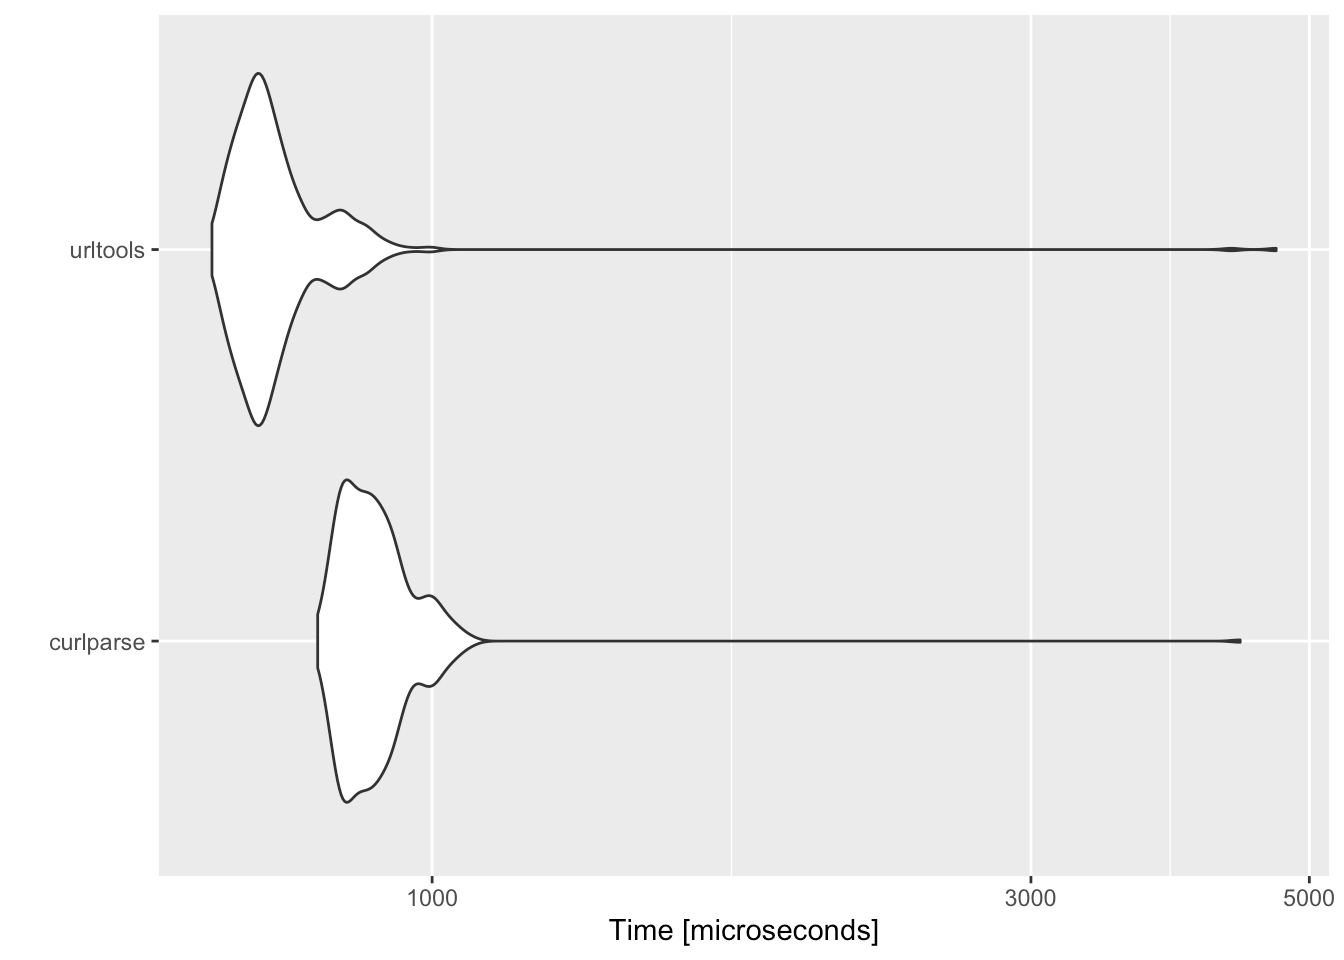
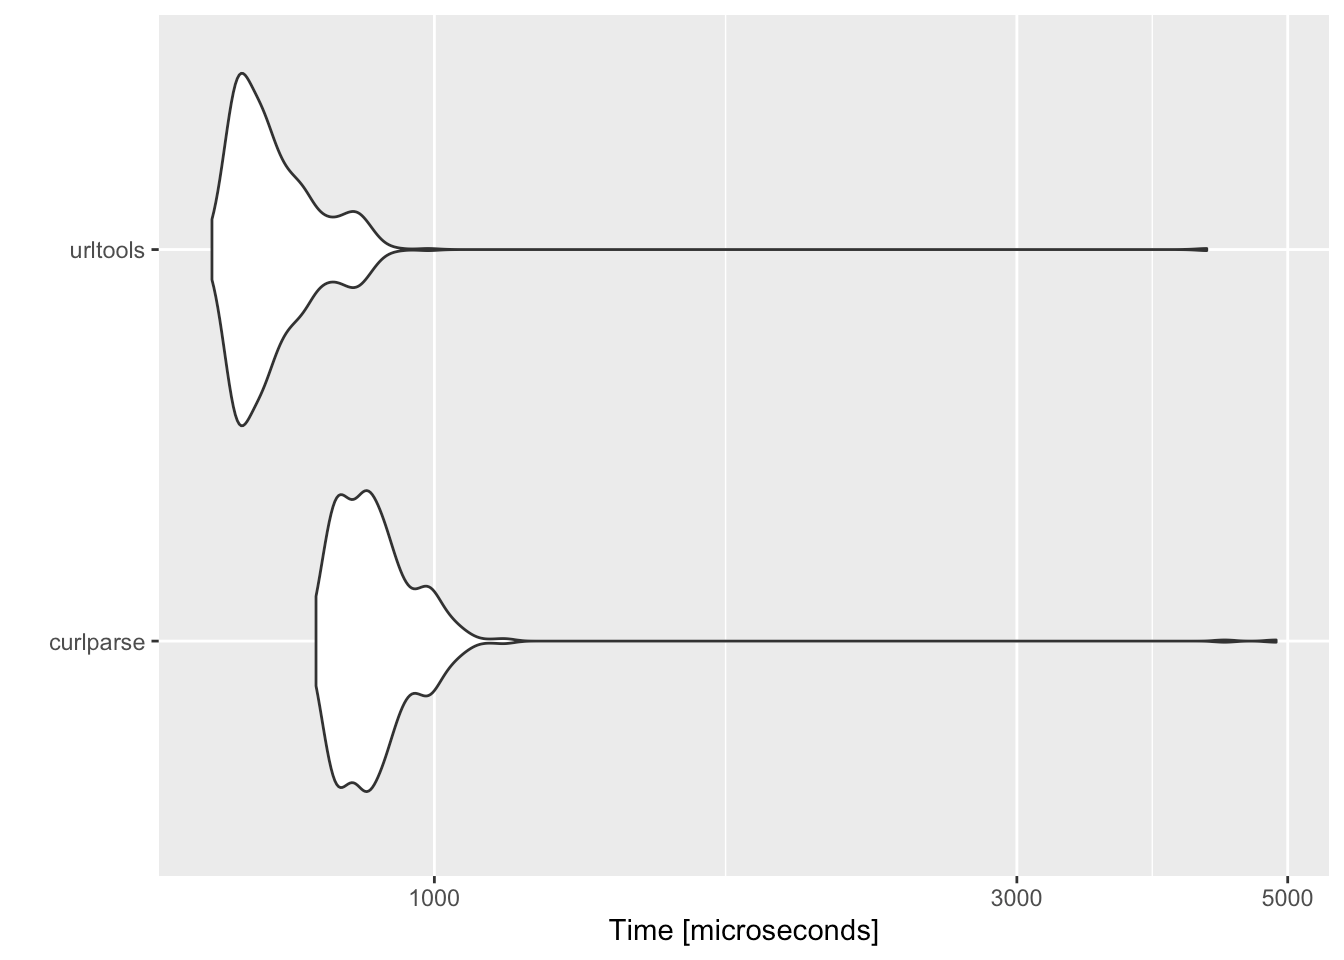
readme

diff --git a/src/curlparse-main.cpp b/src/curlparse-main.cpp
@@ -1,7 +1,7 @@
 #include <Rcpp.h>
 
 #include <curl/curl.h>
-#include <curl/urlapi.h>
+// #include <curl/urlapi.h>
 
 using namespace Rcpp;
 

diff --git a/README.md b/README.md
@@ -5,9 +5,11 @@ developed.](https://www.repostatus.org/badges/latest/active.svg)](https://www.re
 [![Signed
 by](https://img.shields.io/badge/Keybase-Verified-brightgreen.svg)](https://keybase.io/hrbrmstr)
 ![Signed commit
-%](https://img.shields.io/badge/Signed_Commits-100%25-lightgrey.svg)
+%](https://img.shields.io/badge/Signed_Commits-77.8%25-lightgrey.svg)
 [![Linux build
 Status](https://travis-ci.org/hrbrmstr/curlparse.svg?branch=master)](https://travis-ci.org/hrbrmstr/curlparse)
+[![Windows build
+status](https://ci.appveyor.com/api/projects/status/github/hrbrmstr/curlparse?svg=true)](https://ci.appveyor.com/project/hrbrmstr/curlparse)
 [![Coverage
 Status](https://codecov.io/gh/hrbrmstr/curlparse/branch/master/graph/badge.svg)](https://codecov.io/gh/hrbrmstr/curlparse)
 ![Minimal R
@@ -158,9 +160,9 @@ microbenchmark(
 
 mb
 ## Unit: microseconds
-##       expr     min       lq     mean   median       uq      max neval cld
-##  curlparse 810.579 855.6420 906.5393 890.2775 929.2810 4404.267   500   b
-##   urltools 667.676 711.7175 766.3760 735.4835 771.1215 4704.806   500  a
+##       expr     min      lq     mean   median       uq      max neval cld
+##  curlparse 799.909 842.713 907.3988 881.0535 924.5220 4892.528   500   b
+##   urltools 657.364 693.869 745.7828 721.2950 768.6505 4292.258   500  a
 
 autoplot(mb)
 ```
@@ -338,14 +340,12 @@ all(
 
 ## curlparse Metrics
 
-| Lang         | \# Files |  (%) |  LoC |  (%) | Blank lines |  (%) | \# Lines |  (%) |
-| :----------- | -------: | ---: | ---: | ---: | ----------: | ---: | -------: | ---: |
-| C            |       21 | 0.41 | 1773 | 0.49 |         336 | 0.63 |      216 | 0.21 |
-| C/C++ Header |        3 | 0.06 |  844 | 0.23 |          10 | 0.02 |        1 | 0.00 |
-| R            |       23 | 0.45 |  612 | 0.17 |          75 | 0.14 |      699 | 0.68 |
-| C++          |        2 | 0.04 |  285 | 0.08 |          65 | 0.12 |       58 | 0.06 |
-| Rmd          |        1 | 0.02 |   85 | 0.02 |          49 | 0.09 |       59 | 0.06 |
-| Bourne Shell |        1 | 0.02 |    2 | 0.00 |           0 | 0.00 |        0 | 0.00 |
+| Lang         | \# Files | (%) | LoC |  (%) | Blank lines |  (%) | \# Lines |  (%) |
+| :----------- | -------: | --: | --: | ---: | ----------: | ---: | -------: | ---: |
+| C++          |        2 | 0.2 | 286 | 0.68 |          65 | 0.51 |       58 | 0.32 |
+| Rmd          |        1 | 0.1 |  85 | 0.20 |          49 | 0.38 |       59 | 0.32 |
+| R            |        6 | 0.6 |  46 | 0.11 |          14 | 0.11 |       67 | 0.36 |
+| Bourne Shell |        1 | 0.1 |   2 | 0.00 |           0 | 0.00 |        0 | 0.00 |
 
 ## Code of Conduct
 
